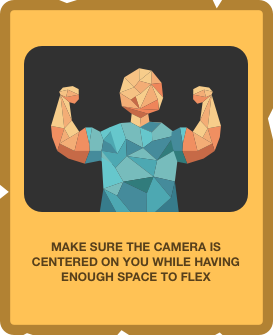
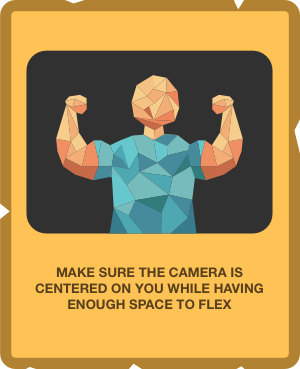
tutorial bigger, fatigue screen

diff --git a/src/js/script.js b/src/js/script.js
@@ -217,7 +217,7 @@ import Bird from './classes/Bird.js';
     HEIGHT = window.innerHeight;
 
     scene = new THREE.Scene();
-    scene.fog = new THREE.Fog(0x46a2bb, 1500, 2500);
+    scene.fog = new THREE.Fog(0xc08329, 1500, 2500);
       //create the camera
     aspectRatio = WIDTH / HEIGHT;
     fieldOfView = 70;
@@ -680,21 +680,28 @@ import Bird from './classes/Bird.js';
               setTimeout(() => {
                 didFlex = false;
               }, 1500);
+            } else {
+              noStamina();
             }
 
           } else if ((leftElbow.position.y > leftShoulder.position.y && leftWrist.position.x > leftElbow.position.x + 20 && leftWrist.position.y > leftShoulder.position.y) &&
           (rightElbow.position.y >= rightShoulder.position.y && rightWrist.position.x < rightElbow.position.x - 20 && rightWrist.position.y > rightShoulder.position.y) && camera.position.y <= maxHeight) {
 
-            didFlex = true;
-            flexedDown = true;
-            bird.changePose(0, camera);
-            flexsound.play();
-
-            fatigue.value -= 5;
-
-            setTimeout(() => {
-              didFlex = false;
-            }, 1000);
+            if (fatigue.value > 1) {
+              didFlex = true;
+              flexedDown = true;
+              bird.changePose(0, camera);
+              flexsound.play();
+  
+              fatigue.value -= 5;
+  
+              setTimeout(() => {
+                didFlex = false;
+              }, 1000);
+            } else {
+              noStamina();
+            }
+            
           } else {
             flexedUp = false;
             flexedDown = false;
@@ -716,6 +723,14 @@ import Bird from './classes/Bird.js';
       }
 
     }
+  };
+
+  const noStamina = () => {
+    const tooCloseSection = document.getElementById(`too_close`);
+    const infoTxt = document.querySelector(`.te_dicht`);
+    tooCloseSection.className = `too_close display_page`;
+
+    infoTxt.innerHTML = `Flexbird is fatigued`;
   };
 
   const fly = () => {

diff --git a/src/index.html b/src/index.html
@@ -26,9 +26,9 @@
             <h2>tutorial</h2>
 
             <div class="tuts">
-                <img src="assets/tut1.png" alt="tut1" width="273" height="335">
-                <img src="assets/tut2.png" alt="tut2" width="308" height="364">
-                <img src="assets/tut3.png" alt="tut3" width="273" height="402">
+                <img src="assets/tut1.png" alt="tut1" width="300" height="369">
+                <img src="assets/tut2.png" alt="tut2" width="339" height="401">
+                <img src="assets/tut3.png" alt="tut3" width="301" height="443">
             </div>
 
             <p class="tutorial_play">I'm ready</p>

diff --git a/src/css/style.css b/src/css/style.css
@@ -79,7 +79,7 @@ h1 {
   width: 100vw;
   height: 100vh;
   overflow: hidden;
-  background: linear-gradient(180deg, #c08329 0%, #46a2bb 50%);
+  background: linear-gradient(180deg, #46a2bb, #c08329);
   z-index: 0;
 }
 
